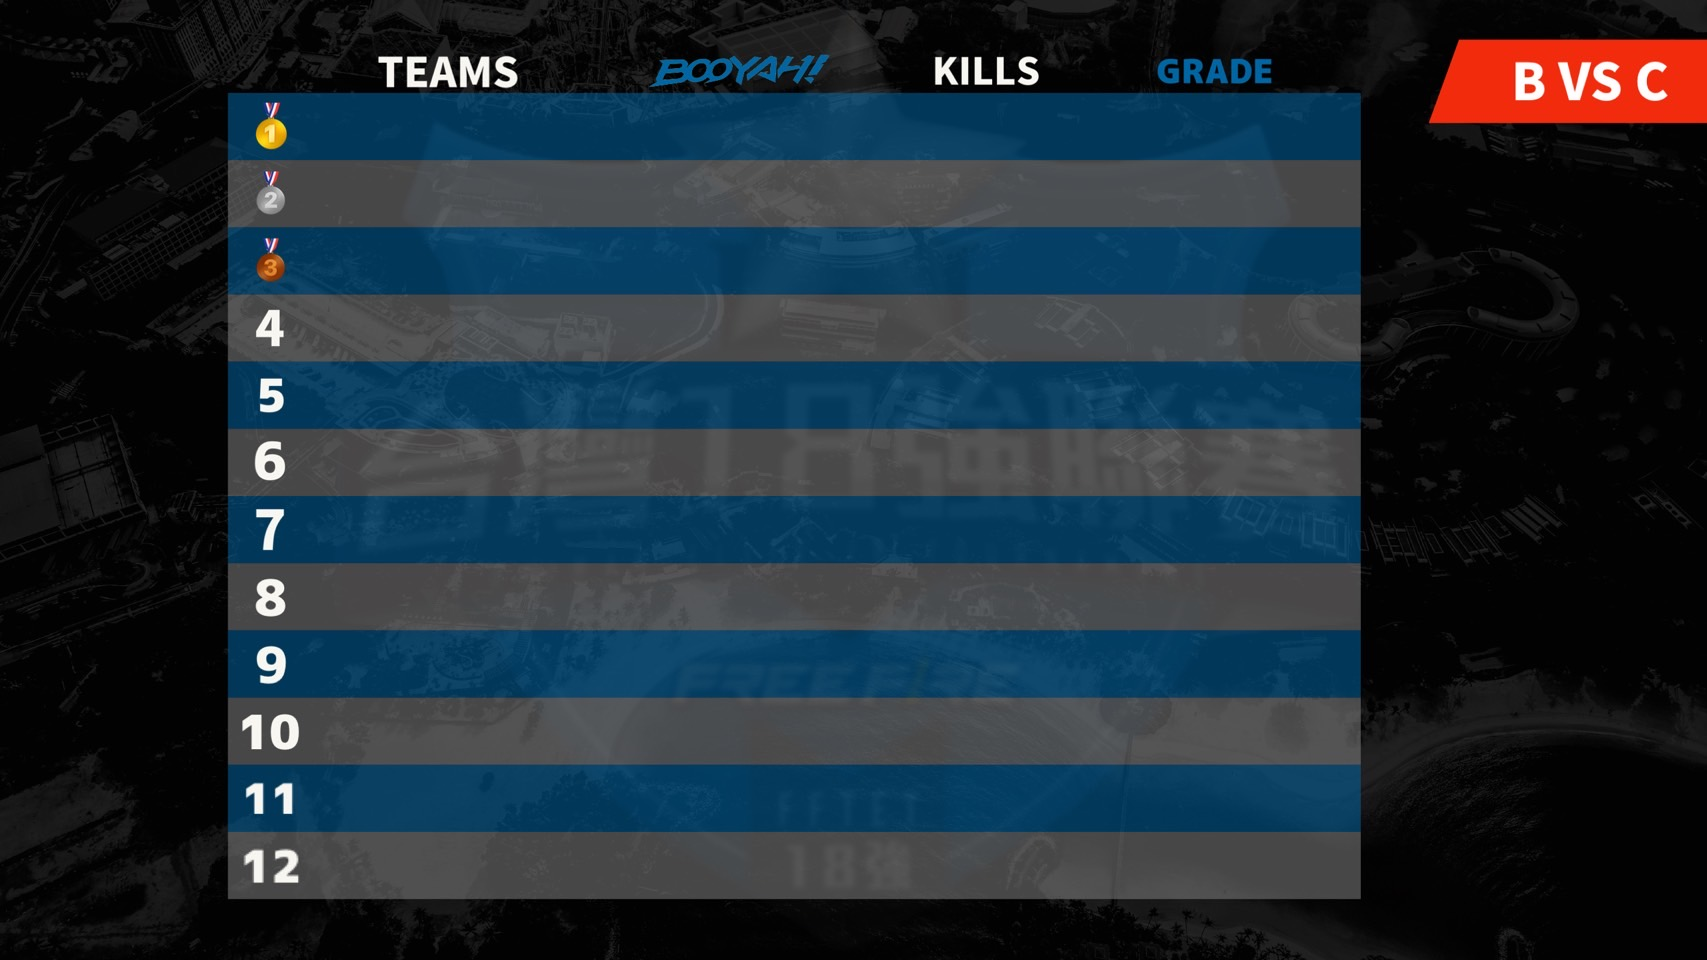
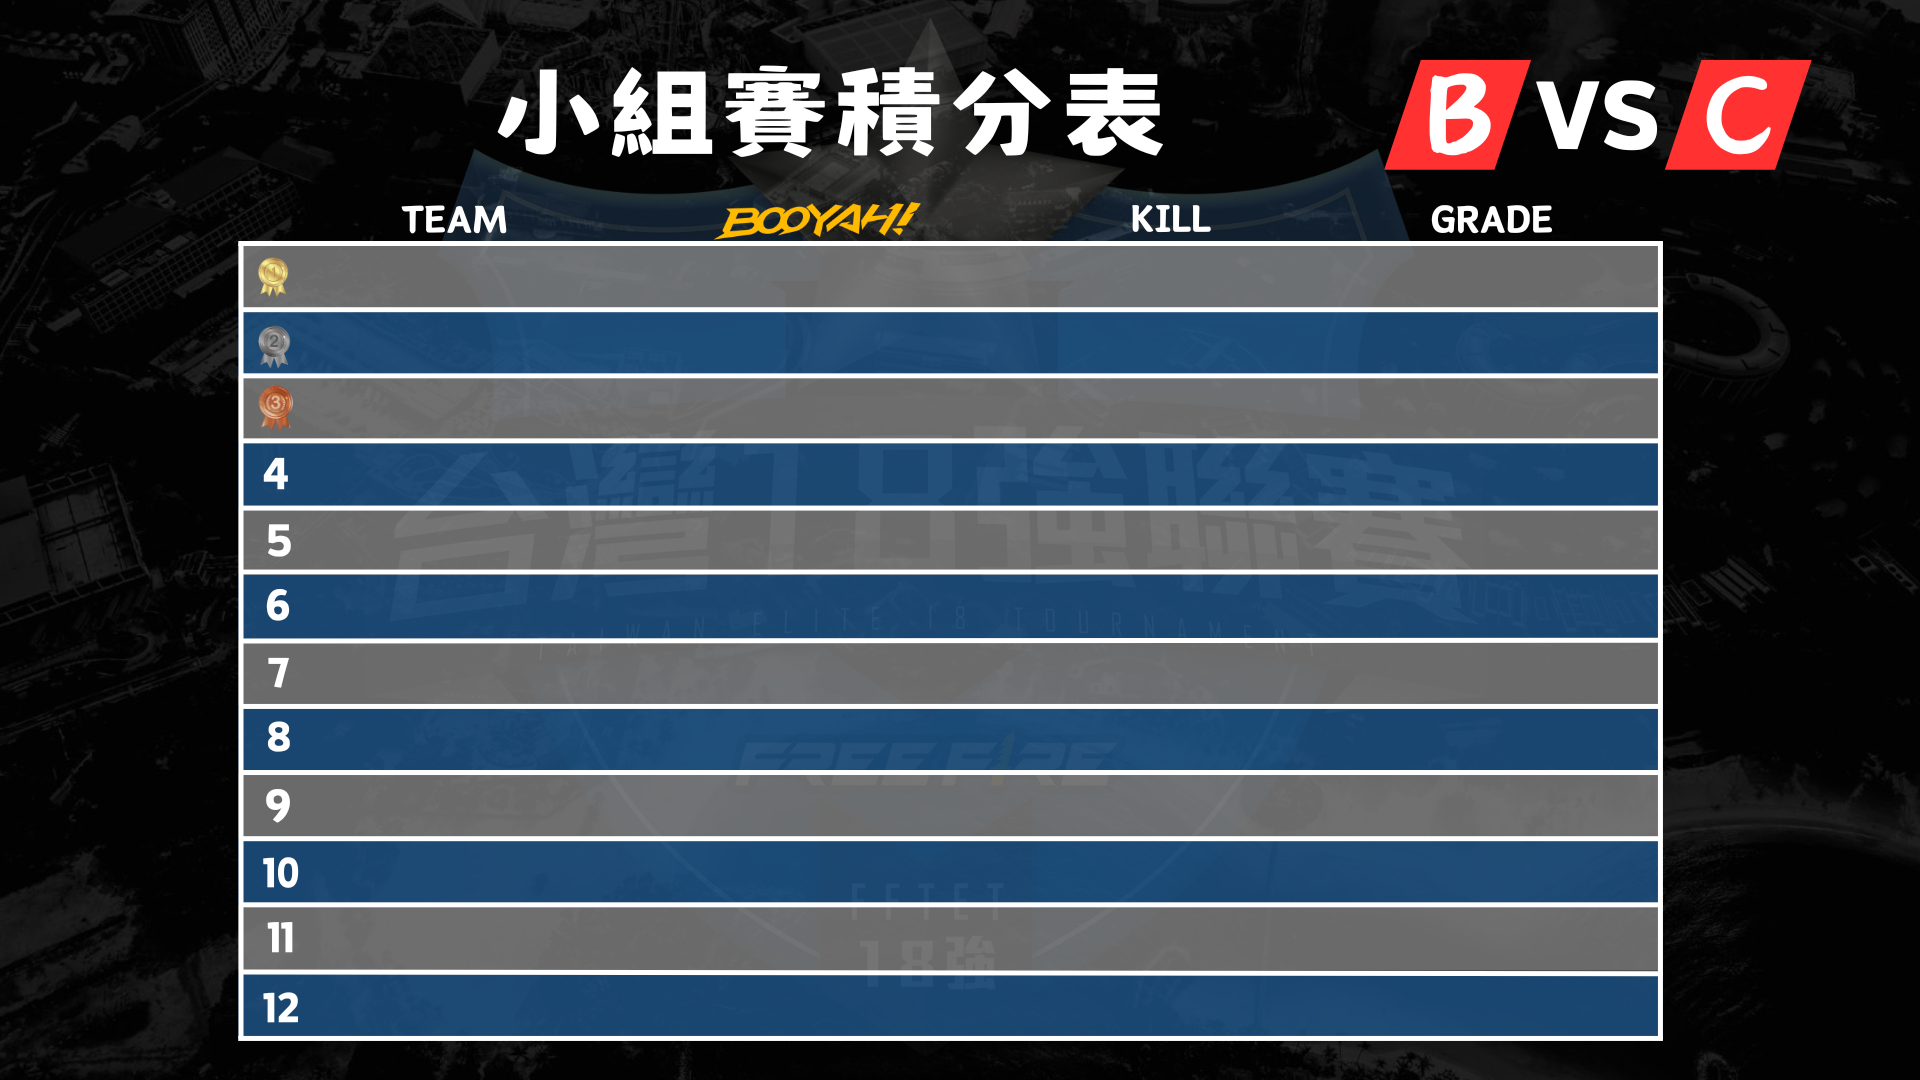
V3

diff --git a/AB.html b/AB.html
@@ -122,13 +122,13 @@ video {
 /* 調整圖片列的間距 */
 #table td:nth-child(1) {
 	padding-top: 0px; /* 上面間距 */
-	padding-bottom: 5.5px; /* 下面間距 */
+	padding-bottom: 6.5px; /* 下面間距 */
 	padding-left: 30px; /* 左邊間距 */
     padding-right: 0px; /* 右邊間距 */
-	height: 10px; /* 調整高度值 */
+	height: 15px; /* 調整高度值 */
     vertical-align: top; /* 將內容置頂 */
 	position: relative; /* 啟用定位 */
-    top: -5px; /* 向上偏移指定像素 */
+    top: 3px; /* 向上偏移指定像素 */
    
 }
 
@@ -160,24 +160,24 @@ video {
 }	
 	
 #table td:nth-child(3) {
-    padding-left: 270px; /* 左邊間距 */
+    padding-left: 210px; /* 左邊間距 */
     
 }
 	
 #table td:nth-child(4) {
-    padding-left: 140px; /* 左邊間距 */
-	padding-right: 110px; /* 右邊間距 */
+    padding-left: 210px; /* 左邊間距 */
+	padding-right: 180px; /* 右邊間距 */
     
 }
 	
 	
 	#table img {
-    max-width: 60px; /* 調整圖片最大寬度 */
+    max-width: 50px; /* 調整圖片最大寬度 */
     max-height: auto; /* 調整圖片最大高度 */
 }
 	
 	 body {
-    background-image: url("PNG/AB.jpg");
+    background-image: url("PNG/top12.jpg");
     background-repeat: no-repeat;
     background-size: 100% auto;
     }	
@@ -189,7 +189,7 @@ video {
  
 
 	
-	<div class="Excel" style="padding-top: 115px;padding-left:325px;">
+	<div class="Excel" style="padding-top: 245px;padding-left:325px;">
   <table id="table">
         <thead>
             <tr>

diff --git a/AC.html b/AC.html
@@ -122,13 +122,13 @@ video {
 /* 調整圖片列的間距 */
 #table td:nth-child(1) {
 	padding-top: 0px; /* 上面間距 */
-	padding-bottom: 5.5px; /* 下面間距 */
+	padding-bottom: 6.5px; /* 下面間距 */
 	padding-left: 30px; /* 左邊間距 */
     padding-right: 0px; /* 右邊間距 */
-	height: 10px; /* 調整高度值 */
+	height: 15px; /* 調整高度值 */
     vertical-align: top; /* 將內容置頂 */
 	position: relative; /* 啟用定位 */
-    top: -5px; /* 向上偏移指定像素 */
+    top: 3px; /* 向上偏移指定像素 */
    
 }
 
@@ -160,24 +160,24 @@ video {
 }	
 	
 #table td:nth-child(3) {
-    padding-left: 270px; /* 左邊間距 */
+    padding-left: 210px; /* 左邊間距 */
     
 }
 	
 #table td:nth-child(4) {
-    padding-left: 140px; /* 左邊間距 */
-	padding-right: 110px; /* 右邊間距 */
+    padding-left: 210px; /* 左邊間距 */
+	padding-right: 180px; /* 右邊間距 */
     
 }
 	
 	
 	#table img {
-    max-width: 60px; /* 調整圖片最大寬度 */
+    max-width: 50px; /* 調整圖片最大寬度 */
     max-height: auto; /* 調整圖片最大高度 */
 }
 	
 	 body {
-    background-image: url("PNG/AC.jpg");
+    background-image: url("PNG/top12.jpg");
     background-repeat: no-repeat;
     background-size: 100% auto;
     }	
@@ -189,7 +189,7 @@ video {
  
 
 	
-	<div class="Excel" style="padding-top: 115px;padding-left:325px;">
+	<div class="Excel" style="padding-top: 245px;padding-left:325px;">
   <table id="table">
         <thead>
             <tr>

diff --git a/BC.html b/BC.html
@@ -122,13 +122,13 @@ video {
 /* 調整圖片列的間距 */
 #table td:nth-child(1) {
 	padding-top: 0px; /* 上面間距 */
-	padding-bottom: 5.5px; /* 下面間距 */
+	padding-bottom: 6.5px; /* 下面間距 */
 	padding-left: 30px; /* 左邊間距 */
     padding-right: 0px; /* 右邊間距 */
-	height: 10px; /* 調整高度值 */
+	height: 15px; /* 調整高度值 */
     vertical-align: top; /* 將內容置頂 */
 	position: relative; /* 啟用定位 */
-    top: -5px; /* 向上偏移指定像素 */
+    top: 3px; /* 向上偏移指定像素 */
    
 }
 
@@ -160,24 +160,24 @@ video {
 }	
 	
 #table td:nth-child(3) {
-    padding-left: 270px; /* 左邊間距 */
+    padding-left: 210px; /* 左邊間距 */
     
 }
 	
 #table td:nth-child(4) {
-    padding-left: 140px; /* 左邊間距 */
-	padding-right: 110px; /* 右邊間距 */
+    padding-left: 210px; /* 左邊間距 */
+	padding-right: 180px; /* 右邊間距 */
     
 }
 	
 	
 	#table img {
-    max-width: 60px; /* 調整圖片最大寬度 */
+    max-width: 50px; /* 調整圖片最大寬度 */
     max-height: auto; /* 調整圖片最大高度 */
 }
 	
 	 body {
-    background-image: url("PNG/BC.jpg");
+    background-image: url("PNG/top12.jpg");
     background-repeat: no-repeat;
     background-size: 100% auto;
     }	
@@ -189,7 +189,7 @@ video {
  
 
 	
-	<div class="Excel" style="padding-top: 115px;padding-left:325px;">
+	<div class="Excel" style="padding-top: 245px;padding-left:325px;">
   <table id="table">
         <thead>
             <tr>

diff --git a/top12.html b/top12.html
@@ -122,13 +122,13 @@ video {
 /* 調整圖片列的間距 */
 #table td:nth-child(1) {
 	padding-top: 0px; /* 上面間距 */
-	padding-bottom: 5.5px; /* 下面間距 */
+	padding-bottom: 6.5px; /* 下面間距 */
 	padding-left: 30px; /* 左邊間距 */
     padding-right: 0px; /* 右邊間距 */
-	height: 10px; /* 調整高度值 */
+	height: 15px; /* 調整高度值 */
     vertical-align: top; /* 將內容置頂 */
 	position: relative; /* 啟用定位 */
-    top: -5px; /* 向上偏移指定像素 */
+    top: 3px; /* 向上偏移指定像素 */
    
 }
 
@@ -160,19 +160,19 @@ video {
 }	
 	
 #table td:nth-child(3) {
-    padding-left: 270px; /* 左邊間距 */
+    padding-left: 210px; /* 左邊間距 */
     
 }
 	
 #table td:nth-child(4) {
-    padding-left: 140px; /* 左邊間距 */
-	padding-right: 110px; /* 右邊間距 */
+    padding-left: 210px; /* 左邊間距 */
+	padding-right: 180px; /* 右邊間距 */
     
 }
 	
 	
 	#table img {
-    max-width: 60px; /* 調整圖片最大寬度 */
+    max-width: 50px; /* 調整圖片最大寬度 */
     max-height: auto; /* 調整圖片最大高度 */
 }
 	
@@ -189,7 +189,7 @@ video {
  
 
 	
-	<div class="Excel" style="padding-top: 115px;padding-left:325px;">
+	<div class="Excel" style="padding-top: 245px;padding-left:325px;">
   <table id="table">
         <thead>
             <tr>

diff --git a/top18.html b/top18.html
@@ -122,13 +122,13 @@ video {
 /* 調整圖片列的間距 */
 #table td:nth-child(1) {
 	padding-top: 0px; /* 上面間距 */
-	padding-bottom: 0.8px; /* 下面間距 */
+	padding-bottom: 3.6px; /* 下面間距 */
 	padding-left: 30px; /* 左邊間距 */
     padding-right: 0px; /* 右邊間距 */
 	height: 10px; /* 調整高度值 */
     vertical-align: top; /* 將內容置頂 */
 	position: relative; /* 啟用定位 */
-    top: -2px; /* 向上偏移指定像素 */
+    top: 1px; /* 向上偏移指定像素 */
    
 }
 
@@ -160,19 +160,19 @@ video {
 }	
 	
 #table td:nth-child(3) {
-    padding-left: 220px; /* 左邊間距 */
+    padding-left: 230px; /* 左邊間距 */
     
 }
 	
 #table td:nth-child(4) {
-    padding-left: 145px; /* 左邊間距 */
-	padding-right: 120px; /* 右邊間距 */
+    padding-left: 165px; /* 左邊間距 */
+	padding-right: 150px; /* 右邊間距 */
     
 }
 	
 	
 	#table img {
-    max-width: 43px; /* 調整圖片最大寬度 */
+    max-width: 38px; /* 調整圖片最大寬度 */
     max-height: auto; /* 調整圖片最大高度 */
 }
 	
@@ -189,7 +189,7 @@ video {
  
 
 	
-	<div class="Excel" style="padding-top: 110px;padding-left:425px;">
+	<div class="Excel" style="padding-top: 150px;padding-left:355px;">
   <table id="table">
         <thead>
             <tr>
